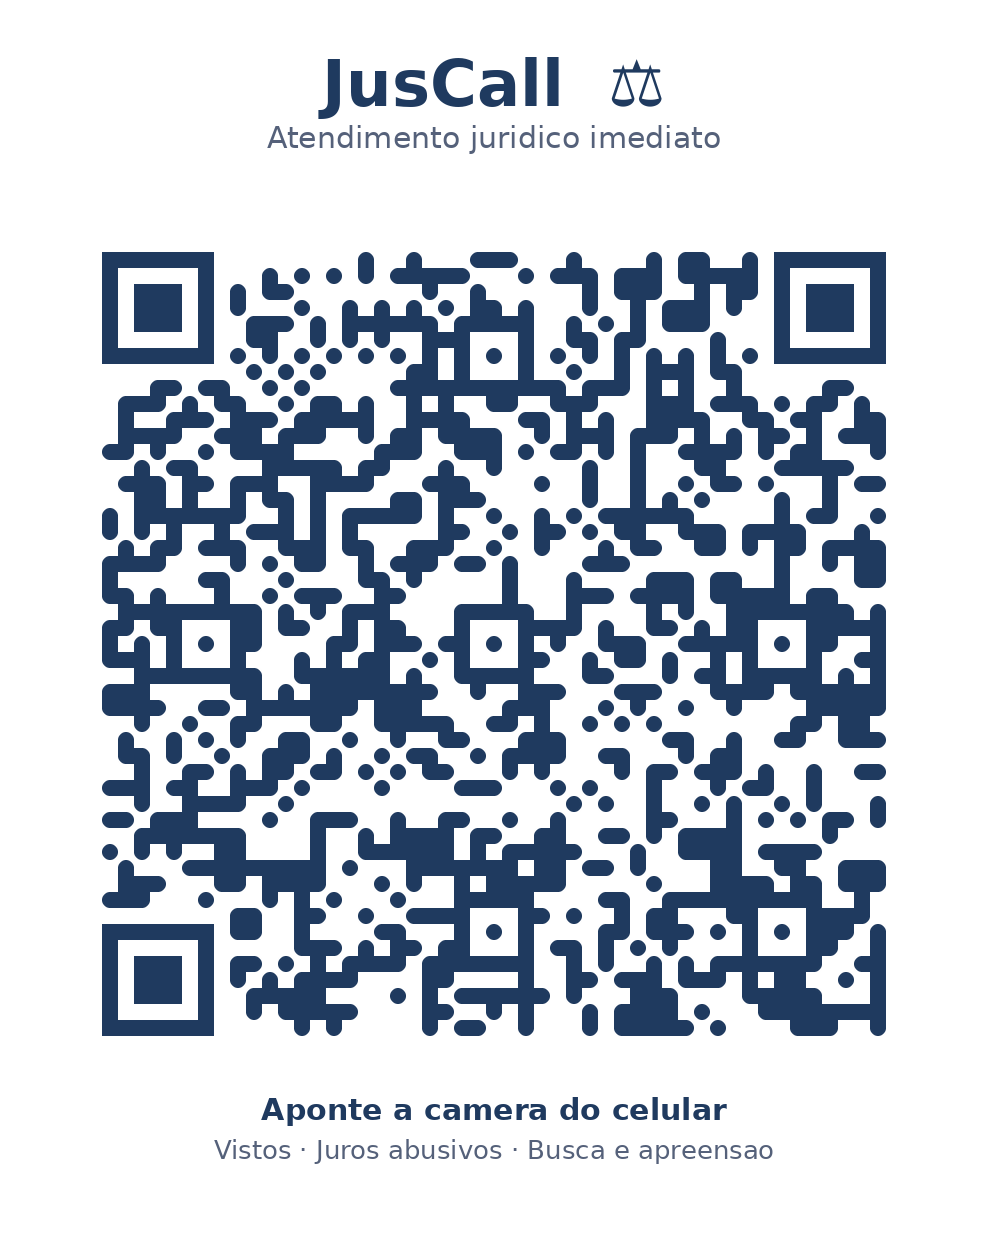
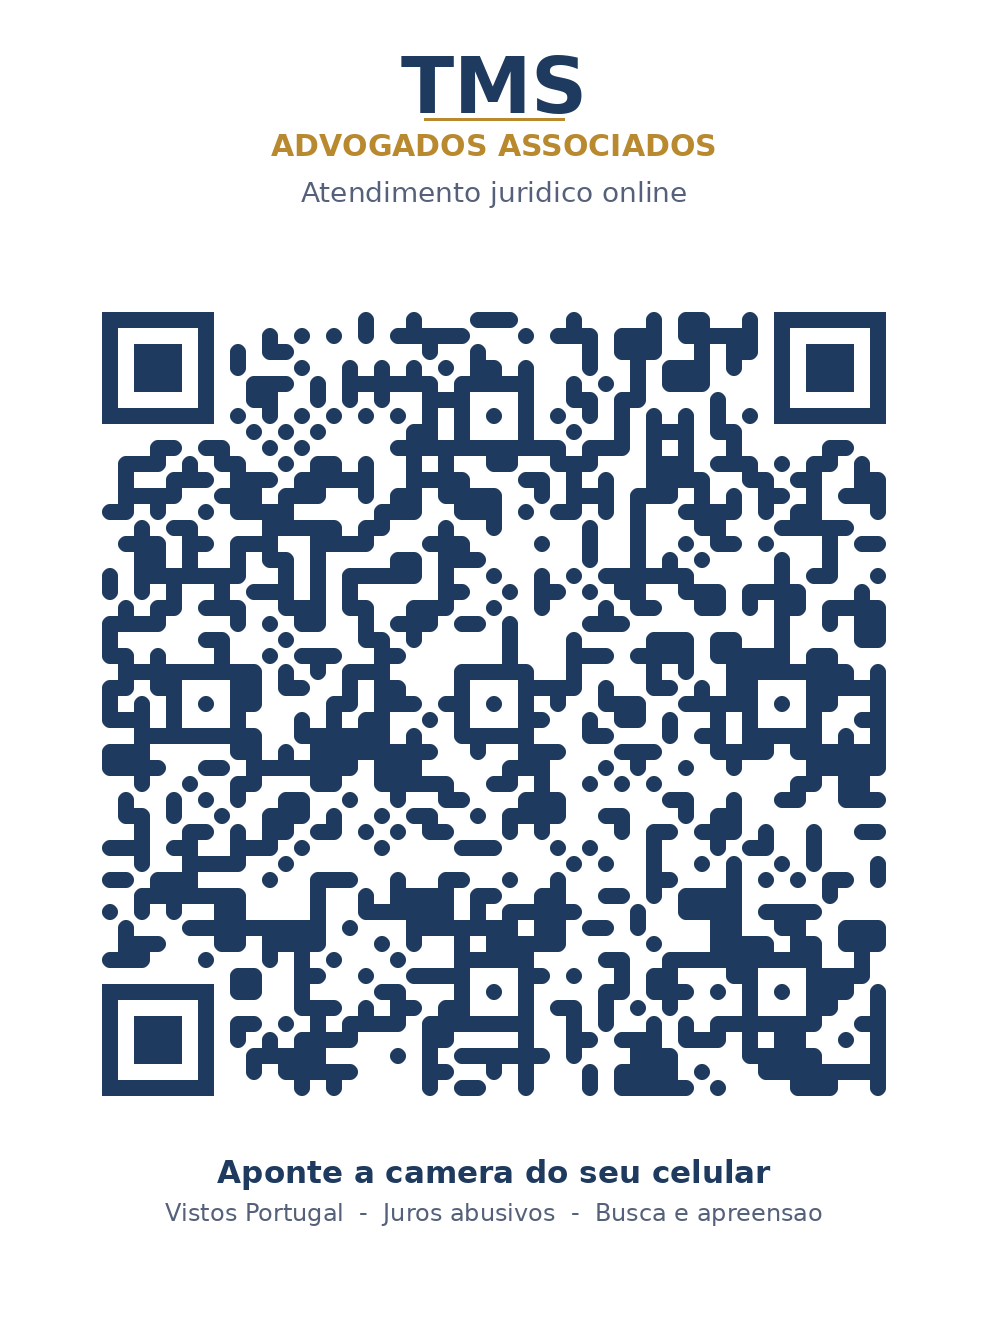
Rebrand chatbot to TMS Advogados and expand guided flows
- Brand as "TMS Advogados Associados" (header, welcome, WhatsApp messages).
- Add per-area follow-up menu: required documents, how fees work
  (free initial consultation + quote after case analysis, OAB-friendly),
  and WhatsApp handoff.
- Richer standard questions for visas, abusive interest and vehicle
  financing / repossession.
- Refresh printable QR card with TMS branding.

Claude-Session: https://claude.ai/code/session_01DPPaTAZvfPRghknt77LHyc

Changed region(s): [[0.0911, 0.186, 0.9109, 0.837], [0.2733, 0.031, 0.7287, 0.155], [0.1822, 0.868, 0.8198, 0.93]]

diff --git a/public/chatbot.html b/public/chatbot.html
@@ -1,6 +1,6 @@
-<title>Ju · Atendimento JusCall</title>
+<title>TMS Advogados · Atendimento</title>
 <meta name="viewport" content="width=device-width, initial-scale=1, viewport-fit=cover">
-<meta name="description" content="Assistente virtual do escritório JusCall: vistos para Portugal, juros abusivos e busca e apreensão de veículos.">
+<meta name="description" content="Atendimento online da TMS Advogados Associados: vistos para Portugal, juros abusivos e busca e apreensão de veículos.">
 <style>
   :root {
     --ground: #eef1f6;
@@ -83,44 +83,42 @@
   }
   @media (min-width: 520px) {
     body { align-items: center; padding: 24px; }
-    .app { height: min(860px, 94dvh); border-radius: 28px; box-shadow: var(--shadow); overflow: hidden; }
+    .app { height: min(880px, 94dvh); border-radius: 28px; box-shadow: var(--shadow); overflow: hidden; }
   }
 
-  /* Header */
   header {
     background: var(--primary);
     color: var(--primary-ink);
-    padding: 16px 18px calc(16px + env(safe-area-inset-top, 0px));
-    padding-top: max(16px, env(safe-area-inset-top, 0px));
+    padding: max(16px, env(safe-area-inset-top, 0px)) 18px 16px;
     display: flex;
     align-items: center;
     gap: 12px;
   }
   .avatar {
-    width: 44px; height: 44px; flex: 0 0 auto;
-    border-radius: 50%;
-    background: color-mix(in srgb, var(--primary-ink) 16%, transparent);
+    width: 46px; height: 46px; flex: 0 0 auto;
+    border-radius: 14px;
+    background: color-mix(in srgb, var(--primary-ink) 15%, transparent);
     display: grid; place-items: center;
+    font-family: "Fraunces", Georgia, serif;
+    font-weight: 600; font-size: 1.05rem; letter-spacing: .5px;
   }
-  .avatar svg { width: 24px; height: 24px; }
   .id h1 {
     margin: 0;
     font-family: "Fraunces", Georgia, serif;
-    font-size: 1.18rem;
+    font-size: 1.12rem;
     font-weight: 600;
     letter-spacing: .2px;
-    line-height: 1.1;
+    line-height: 1.15;
   }
   .id p {
-    margin: 2px 0 0;
+    margin: 3px 0 0;
     font-size: .74rem;
-    opacity: .85;
+    opacity: .9;
     display: flex; align-items: center; gap: 6px;
     letter-spacing: .3px;
   }
   .dot { width: 7px; height: 7px; border-radius: 50%; background: #35d07f; box-shadow: 0 0 0 3px color-mix(in srgb,#35d07f 30%, transparent); }
 
-  /* Chat area */
   .chat {
     flex: 1;
     overflow-y: auto;
@@ -137,7 +135,7 @@
   .row.bot { justify-content: flex-start; }
   .row.user { justify-content: flex-end; }
   .bubble {
-    max-width: 82%;
+    max-width: 84%;
     padding: 11px 14px;
     font-size: .93rem;
     line-height: 1.5;
@@ -149,7 +147,8 @@
   .bot .bubble { background: var(--bot-bubble); color: var(--bot-ink); border-bottom-left-radius: 6px; }
   .user .bubble { background: var(--user-bubble); color: var(--user-ink); border-bottom-right-radius: 6px; }
   .bubble strong { font-weight: 700; }
-  .bubble a { color: inherit; }
+  .bubble ul { margin: 6px 0 0; padding-left: 18px; }
+  .bubble li { margin: 3px 0; }
   @keyframes pop { from { opacity: 0; transform: translateY(6px) scale(.98); } to { opacity: 1; transform: none; } }
 
   .typing { display: inline-flex; gap: 4px; align-items: center; }
@@ -158,11 +157,7 @@
   .typing span:nth-child(3){ animation-delay: .4s; }
   @keyframes blink { 0%,60%,100%{ transform: translateY(0); opacity:.35 } 30%{ transform: translateY(-4px); opacity:.9 } }
 
-  /* Quick replies + actions */
-  .actions {
-    display: flex; flex-wrap: wrap; gap: 8px;
-    padding: 4px 14px 12px;
-  }
+  .actions { display: flex; flex-wrap: wrap; gap: 8px; padding: 4px 14px 12px; }
   .chip {
     appearance: none; border: 1px solid var(--line);
     background: var(--panel);
@@ -201,14 +196,10 @@
 
 <div class="app">
   <header>
-    <div class="avatar" aria-hidden="true">
-      <svg viewBox="0 0 24 24" fill="none" stroke="currentColor" stroke-width="1.7" stroke-linecap="round" stroke-linejoin="round">
-        <path d="M12 3v18M7 21h10M5 7l14-2"/><path d="M5 7l-2.5 6a3 3 0 0 0 5 0L5 7z"/><path d="M19 5l-2.5 6a3 3 0 0 0 5 0L19 5z"/>
-      </svg>
-    </div>
+    <div class="avatar" aria-hidden="true">TMS</div>
     <div class="id">
-      <h1>Ju · Assistente JusCall</h1>
-      <p><span class="dot"></span> Online agora · resposta imediata</p>
+      <h1>TMS Advogados Associados</h1>
+      <p><span class="dot"></span> Ju · assistente virtual · online agora</p>
     </div>
   </header>
 
@@ -228,13 +219,11 @@
 <script>
 (function () {
   var WHATSAPP = "5511991537423";
+  var OFFICE = "TMS Advogados Associados";
   var chat = document.getElementById("chat");
   var actions = document.getElementById("actions");
 
-  function waLink(msg) {
-    return "https://wa.me/" + WHATSAPP + "?text=" + encodeURIComponent(msg);
-  }
-
+  function waLink(msg) { return "https://wa.me/" + WHATSAPP + "?text=" + encodeURIComponent(msg); }
   function scrollDown() { chat.scrollTop = chat.scrollHeight; }
 
   function addBubble(who, html) {
@@ -249,10 +238,9 @@
     return b;
   }
 
-  // Sequenced bot messages with a typing indicator
   function botSay(messages, done) {
     var queue = messages.slice();
-    function next() {
+    (function next() {
       if (!queue.length) { if (done) done(); return; }
       var typingRow = document.createElement("div");
       typingRow.className = "row bot";
@@ -260,14 +248,9 @@
       chat.appendChild(typingRow);
       scrollDown();
       var text = queue.shift();
-      var delay = Math.min(1100, 350 + text.replace(/<[^>]+>/g, "").length * 12);
-      setTimeout(function () {
-        chat.removeChild(typingRow);
-        addBubble("bot", text);
-        next();
-      }, delay);
-    }
-    next();
+      var delay = Math.min(1100, 350 + text.replace(/<[^>]+>/g, "").length * 11);
+      setTimeout(function () { chat.removeChild(typingRow); addBubble("bot", text); next(); }, delay);
+    })();
   }
 
   function clearActions() { actions.innerHTML = ""; }
@@ -279,24 +262,16 @@
     if (isWa) {
       b.innerHTML = '<svg viewBox="0 0 24 24" fill="currentColor"><path d="M12.04 2C6.58 2 2.13 6.45 2.13 11.91c0 1.75.46 3.45 1.32 4.95L2 22l5.25-1.38a9.9 9.9 0 0 0 4.79 1.22h.01c5.46 0 9.91-4.45 9.91-9.91 0-2.65-1.03-5.14-2.9-7.01A9.82 9.82 0 0 0 12.04 2Zm0 18.02h-.01a8.2 8.2 0 0 1-4.19-1.15l-.3-.18-3.12.82.83-3.04-.2-.31a8.23 8.23 0 0 1-1.26-4.35c0-4.54 3.7-8.23 8.25-8.23 2.2 0 4.27.86 5.83 2.42a8.19 8.19 0 0 1 2.41 5.82c0 4.54-3.7 8.23-8.24 8.23Zm4.52-6.16c-.25-.12-1.47-.72-1.69-.81-.23-.08-.39-.12-.56.13-.16.25-.64.8-.79.97-.14.16-.29.18-.54.06-.25-.12-1.05-.39-1.99-1.23-.74-.66-1.23-1.47-1.38-1.72-.14-.25-.02-.38.11-.51.11-.11.25-.29.37-.43.13-.14.17-.25.25-.41.08-.16.04-.31-.02-.43-.06-.12-.56-1.34-.76-1.84-.2-.48-.4-.42-.56-.43l-.48-.01c-.16 0-.43.06-.65.31-.22.25-.85.83-.85 2.03 0 1.2.87 2.35.99 2.51.12.16 1.71 2.62 4.15 3.67.58.25 1.03.4 1.39.51.58.19 1.11.16 1.53.1.47-.07 1.47-.6 1.67-1.18.21-.58.21-1.07.15-1.18-.06-.11-.22-.17-.47-.29Z"/></svg>';
       b.appendChild(document.createTextNode(label));
-    } else {
-      b.textContent = label;
-    }
+    } else { b.textContent = label; }
     b.addEventListener("click", onClick);
     actions.appendChild(b);
     return b;
   }
 
   function waChip(message) {
-    var a = addChip("Falar com advogado no WhatsApp", function () {
-      window.open(waLink(message), "_blank");
-    }, true);
-    return a;
+    addChip("Falar com advogado no WhatsApp", function () { window.open(waLink(message), "_blank"); }, true);
   }
-
-  function menuChip() {
-    addChip("↩ Voltar ao início", function () { userPicked("Voltar ao início", start); });
-  }
+  function menuChip() { addChip("↩ Voltar ao início", function () { userPicked("Voltar ao início", start); }); }
 
   function userPicked(label, handler) {
     clearActions();
@@ -304,102 +279,155 @@
     setTimeout(handler, 250);
   }
 
-  // ---------- Conversation flows ----------
+  // Standard follow-up menu for every area: docs, fees, WhatsApp, home
+  function infoMenu(area) {
+    waChip(area.wa);
+    addChip("📄 Documentos necessários", function () { userPicked("Quais documentos eu preciso?", function () { showDocs(area); }); });
+    addChip("💰 Quanto custa?", function () { userPicked("Quanto custa / como são os honorários?", function () { showFees(area); }); });
+    menuChip();
+  }
 
-  function start() {
-    clearActions();
+  function showDocs(area) {
     botSay([
-      "Olá! Eu sou a <strong>Ju</strong>, assistente virtual do escritório <strong>JusCall</strong>. 👋",
-      "Posso te dar uma orientação inicial e já te conectar com um advogado. Sobre qual assunto você precisa de ajuda?"
+      "Para o seu caso de <strong>" + area.nome + "</strong>, geralmente pedimos:",
+      area.docs,
+      "Não se preocupe se faltar algum documento — o advogado te orienta sobre como obter cada um. 😉"
+    ], function () { infoMenu(area); });
+  }
+
+  function showFees() {
+    botSay([
+      "A <strong>primeira conversa</strong> para entendermos o seu caso é <strong>gratuita e sem compromisso</strong>. 🤝",
+      "Os honorários são definidos <strong>somente após a análise</strong>, de acordo com a complexidade do caso. Assim você recebe um valor justo e transparente, combinado antes de qualquer providência — sem surpresas.",
+      "Quando possível, também trabalhamos com <strong>parcelamento</strong> e formas facilitadas de pagamento."
     ], function () {
-      addChip("🇵🇹 Visto para Portugal", function () { userPicked("Quero ajuda com visto para Portugal", vistoStart); });
-      addChip("💰 Juros abusivos", function () { userPicked("Acho que estou pagando juros abusivos", jurosStart); });
-      addChip("🚗 Financiamento / busca e apreensão", function () { userPicked("Problema com financiamento do meu veículo", carroStart); });
+      var area = showFees._area;
+      if (area) { infoMenu(area); } else { menuChip(); }
     });
   }
 
-  // --- Visto Portugal ---
+  // ---------- Areas ----------
+  var VISTO = {
+    nome: "Visto para Portugal",
+    wa: "Ola! Vim pelo atendimento online da " + OFFICE + ". Preciso de ajuda com VISTO PARA PORTUGAL. Meu nome e: ",
+    docs: "<ul>" +
+      "<li>Passaporte válido (mínimo 6 meses)</li>" +
+      "<li>Fotos recentes tipo passaporte</li>" +
+      "<li>Comprovação de meios de subsistência (renda/saldo)</li>" +
+      "<li>Seguro de saúde/viagem válido em Portugal</li>" +
+      "<li>Comprovativo de onde vai morar (alojamento)</li>" +
+      "<li>Certidão de antecedentes criminais</li>" +
+      "<li>Documento específico do seu tipo de visto (contrato de trabalho, carta da faculdade, comprovação de renda ou certidões da família)</li>" +
+      "</ul>"
+  };
+  var JUROS = {
+    nome: "Revisão por juros abusivos",
+    wa: "Ola! Vim pelo atendimento online da " + OFFICE + ". Quero uma REVISAO por JUROS ABUSIVOS no meu contrato. Meu nome e: ",
+    docs: "<ul>" +
+      "<li>Contrato do financiamento/empréstimo (todas as páginas)</li>" +
+      "<li>Carnê ou tabela com as parcelas</li>" +
+      "<li>Comprovantes de pagamento (boletos/extratos)</li>" +
+      "<li>Extrato do saldo devedor atualizado</li>" +
+      "<li>RG, CPF e comprovante de residência</li>" +
+      "</ul>"
+  };
+  var CARRO = {
+    nome: "Financiamento / busca e apreensão",
+    wa: "Ola! Vim pelo atendimento online da " + OFFICE + ". Tenho um problema de FINANCIAMENTO / BUSCA E APREENSAO do meu veiculo. Meu nome e: ",
+    docs: "<ul>" +
+      "<li>Contrato de financiamento do veículo</li>" +
+      "<li>Documento do veículo (CRLV)</li>" +
+      "<li>Comprovantes das parcelas pagas</li>" +
+      "<li>Boletos em atraso</li>" +
+      "<li>Notificação ou citação recebida (se já houver ação)</li>" +
+      "<li>RG, CPF e comprovante de residência</li>" +
+      "</ul>"
+  };
+
+  // ---------- Flows ----------
+  function start() {
+    clearActions();
+    showFees._area = null;
+    botSay([
+      "Olá! Seja bem-vindo(a) à <strong>" + OFFICE + "</strong>. 👋",
+      "Eu sou a <strong>Ju</strong>, assistente virtual do escritório. Posso tirar dúvidas iniciais, dizer quais documentos você precisa e já te conectar com um advogado.",
+      "Sobre qual assunto você precisa de ajuda?"
+    ], function () {
+      addChip("🇵🇹 Visto para Portugal", function () { userPicked("Quero ajuda com visto para Portugal", vistoStart); });
+      addChip("💰 Juros abusivos", function () { userPicked("Acho que pago juros abusivos", jurosStart); });
+      addChip("🚗 Financiamento / busca e apreensão", function () { userPicked("Problema com financiamento do veículo", carroStart); });
+    });
+  }
+
   function vistoStart() {
+    showFees._area = VISTO;
     botSay([
       "Ótimo! Ajudamos brasileiros a morar legalmente em Portugal. 🇵🇹",
       "Qual é o seu principal objetivo?"
     ], function () {
       addChip("Trabalhar", function () { userPicked("Quero trabalhar em Portugal", function(){ vistoResp("trabalho"); }); });
       addChip("Estudar", function () { userPicked("Quero estudar em Portugal", function(){ vistoResp("estudo"); }); });
-      addChip("Aposentado / renda própria", function () { userPicked("Tenho renda própria / sou aposentado", function(){ vistoResp("renda"); }); });
-      addChip("Reunir minha família", function () { userPicked("Quero levar / reunir minha família", function(){ vistoResp("familia"); }); });
+      addChip("Tenho renda própria / aposentado", function () { userPicked("Tenho renda própria / sou aposentado", function(){ vistoResp("renda"); }); });
+      addChip("Reunir minha família", function () { userPicked("Quero reunir minha família", function(){ vistoResp("familia"); }); });
     });
   }
   function vistoResp(tipo) {
     var m = {
-      trabalho: "Para trabalhar, os caminhos mais comuns são o <strong>Visto de Procura de Trabalho</strong> e o visto para <strong>trabalho subordinado</strong> (com contrato). Cidadãos de países da CPLP, como o Brasil, têm um processo facilitado.",
-      estudo: "Para estudar, existe o <strong>Visto de Estudante (D4)</strong>, que exige matrícula/aceitação em instituição portuguesa, comprovação de meios de subsistência e seguro de saúde.",
-      renda: "Se você tem renda própria (aposentadoria, aluguéis, investimentos), o <strong>Visto D7</strong> é o mais indicado. É preciso comprovar renda regular e ter onde morar em Portugal.",
-      familia: "No <strong>reagrupamento familiar</strong>, quem já tem residência legal em Portugal pode trazer cônjuge, filhos e, em certos casos, pais. A documentação do vínculo é essencial."
+      trabalho: "Para trabalhar, os caminhos mais comuns são o <strong>Visto de Procura de Trabalho</strong> e o visto para <strong>trabalho com contrato</strong>. Brasileiros têm processo facilitado pelo acordo da CPLP.",
+      estudo: "Para estudar, existe o <strong>Visto de Estudante (D4)</strong>. É preciso ter aceitação numa instituição de ensino, comprovar meios de subsistência e seguro de saúde.",
+      renda: "Com renda própria (aposentadoria, aluguéis, investimentos), o <strong>Visto D7</strong> costuma ser o ideal. Você comprova renda regular e onde vai morar em Portugal.",
+      familia: "No <strong>reagrupamento familiar</strong>, quem já tem residência legal em Portugal pode trazer cônjuge, filhos e, em alguns casos, os pais. As certidões do vínculo são essenciais."
     };
     botSay([
       m[tipo],
-      "Cada caso tem exigências específicas de documentos e prazos. O ideal é um advogado analisar o seu perfil e montar a estratégia certa para aprovar o seu visto.",
-      "Quer falar agora com um dos nossos advogados? É gratuito e sem compromisso."
-    ], function () {
-      waChip("Olá! Vim pelo chatbot da JusCall. Preciso de ajuda com VISTO PARA PORTUGAL (" + tipo + "). Meu nome é: ");
-      menuChip();
-    });
+      "Cada perfil tem exigências próprias de documentos e prazos. O ideal é um advogado montar a estratégia certa para aprovar o seu visto.",
+      "Posso te ajudar com mais alguma coisa?"
+    ], function () { infoMenu(VISTO); });
   }
 
-  // --- Juros abusivos ---
   function jurosStart() {
+    showFees._area = JUROS;
     botSay([
       "Entendo. Muitos contratos de banco e financeira cobram <strong>juros acima do permitido</strong>, tarifas indevidas e seguros embutidos. 💰",
       "Que tipo de contrato é esse?"
     ], function () {
-      addChip("Financiamento de veículo", function () { userPicked("É um financiamento de veículo", function(){ jurosResp(); }); });
-      addChip("Empréstimo / consignado", function () { userPicked("É um empréstimo ou consignado", function(){ jurosResp(); }); });
-      addChip("Cartão de crédito / cheque especial", function () { userPicked("É cartão de crédito ou cheque especial", function(){ jurosResp(); }); });
-      addChip("Financiamento imobiliário", function () { userPicked("É um financiamento imobiliário", function(){ jurosResp(); }); });
+      addChip("Financiamento de veículo", function () { userPicked("É financiamento de veículo", jurosResp); });
+      addChip("Empréstimo / consignado", function () { userPicked("É empréstimo ou consignado", jurosResp); });
+      addChip("Cartão / cheque especial", function () { userPicked("É cartão de crédito ou cheque especial", jurosResp); });
+      addChip("Financiamento imobiliário", function () { userPicked("É financiamento imobiliário", jurosResp); });
     });
   }
   function jurosResp() {
     botSay([
-      "Nesses contratos é comum encontrar: <strong>juros acima da média do mercado</strong>, capitalização (juros sobre juros) indevida, tarifas de cadastro e seguros que você nem pediu.",
-      "Com uma <strong>revisão do contrato</strong>, muitas vezes é possível <strong>reduzir a parcela</strong> e até <strong>recuperar valores pagos a mais</strong>.",
-      "Para saber quanto você pode economizar, o advogado precisa analisar o contrato. Posso te encaminhar agora?"
-    ], function () {
-      waChip("Olá! Vim pelo chatbot da JusCall. Quero uma REVISÃO por JUROS ABUSIVOS no meu contrato. Meu nome é: ");
-      menuChip();
-    });
+      "Nesses contratos é comum encontrar <strong>juros acima da média do mercado</strong>, capitalização indevida (juros sobre juros), tarifas de cadastro e seguros que você nem pediu.",
+      "Com a <strong>revisão do contrato</strong>, muitas vezes dá para <strong>reduzir a parcela</strong> e até <strong>recuperar valores pagos a mais</strong>.",
+      "Para calcular quanto você pode economizar, o advogado precisa analisar o contrato. Como posso te ajudar?"
+    ], function () { infoMenu(JUROS); });
   }
 
-  // --- Carro / busca e apreensão ---
   function carroStart() {
-    botSay([
-      "Vamos resolver isso com calma. 🚗 Me conta: em que situação você está?"
-    ], function () {
+    showFees._area = CARRO;
+    botSay([ "Vamos resolver isso com calma. 🚗 Em que situação você está?" ], function () {
       addChip("Estou atrasado nas parcelas", function () { userPicked("Estou atrasado nas parcelas", function(){ carroResp("atraso"); }); });
-      addChip("Recebi ação de busca e apreensão", function () { userPicked("Recebi uma ação de busca e apreensão", function(){ carroResp("acao"); }); });
+      addChip("Recebi busca e apreensão", function () { userPicked("Recebi uma ação de busca e apreensão", function(){ carroResp("acao"); }); });
       addChip("Meu carro já foi apreendido", function () { userPicked("Meu carro já foi apreendido", function(){ carroResp("apreendido"); }); });
     });
   }
   function carroResp(fase) {
     var m = {
-      atraso: "Ainda dá tempo de agir. É possível <strong>renegociar</strong> e evitar a ação. Se o contrato tiver juros abusivos, isso também pode ser usado a seu favor.",
-      acao: "Fique tranquilo, você tem direitos. Após ser citado, é possível fazer a <strong>purgação da mora</strong> (pagar o que está em atraso) e ficar com o veículo, dentro do prazo legal. Agir rápido é fundamental.",
+      atraso: "Ainda dá tempo de agir. É possível <strong>renegociar</strong> e evitar a ação. Se o contrato tiver juros abusivos, isso também joga a seu favor.",
+      acao: "Fique tranquilo, você tem direitos. Depois de citado, é possível fazer a <strong>purgação da mora</strong> (pagar o atraso) e ficar com o veículo, dentro do prazo legal. Agir rápido é fundamental.",
       apreendido: "Mesmo com o veículo apreendido ainda há caminhos: discutir o valor da dívida, apontar <strong>abusos no contrato</strong> e, em alguns casos, reaver o bem ou valores pagos. Precisamos ver os prazos com urgência."
     };
     botSay([
       m[fase],
-      "⏱ Nesses casos o <strong>prazo é curto</strong> e faz toda a diferença. O melhor é falar com um advogado o quanto antes.",
-      "Quer que um advogado analise seu caso agora?"
-    ], function () {
-      waChip("Olá! Vim pelo chatbot da JusCall. Tenho um problema de FINANCIAMENTO/BUSCA E APREENSÃO do meu veículo (" + fase + "). Meu nome é: ");
-      menuChip();
-    });
+      "⏱ Nesses casos o <strong>prazo é curto</strong> e faz toda a diferença. O ideal é falar com um advogado o quanto antes.",
+      "Como posso te ajudar?"
+    ], function () { infoMenu(CARRO); });
   }
 
   document.getElementById("restart").addEventListener("click", function () {
-    chat.innerHTML = "";
-    clearActions();
-    start();
+    chat.innerHTML = ""; clearActions(); start();
   });
 
   start();
